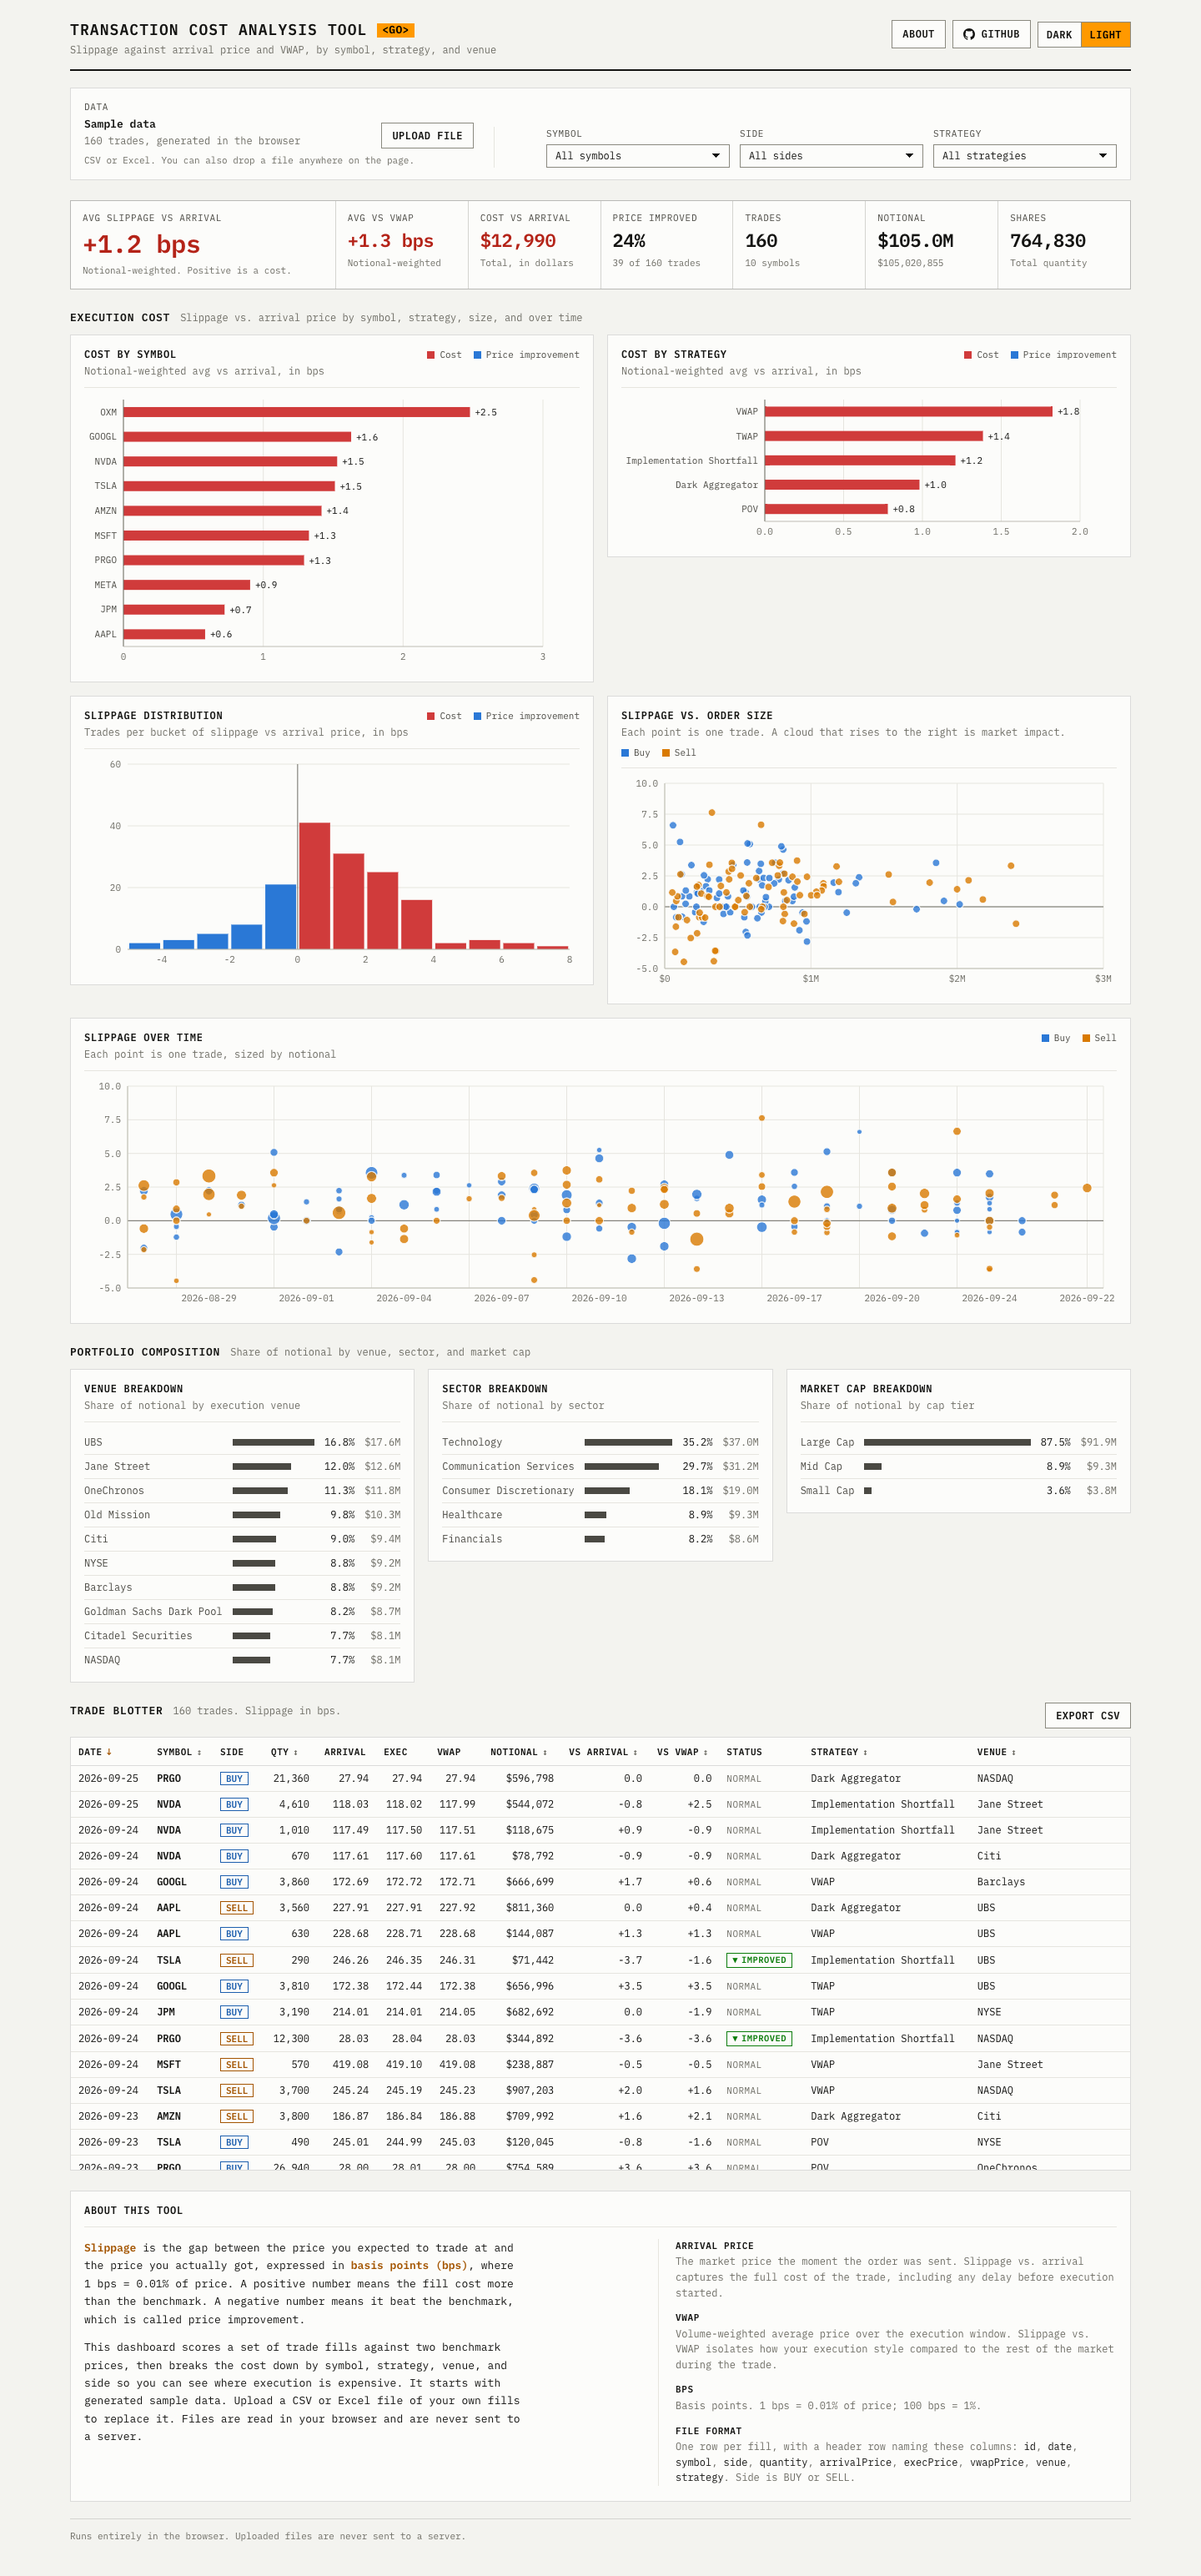
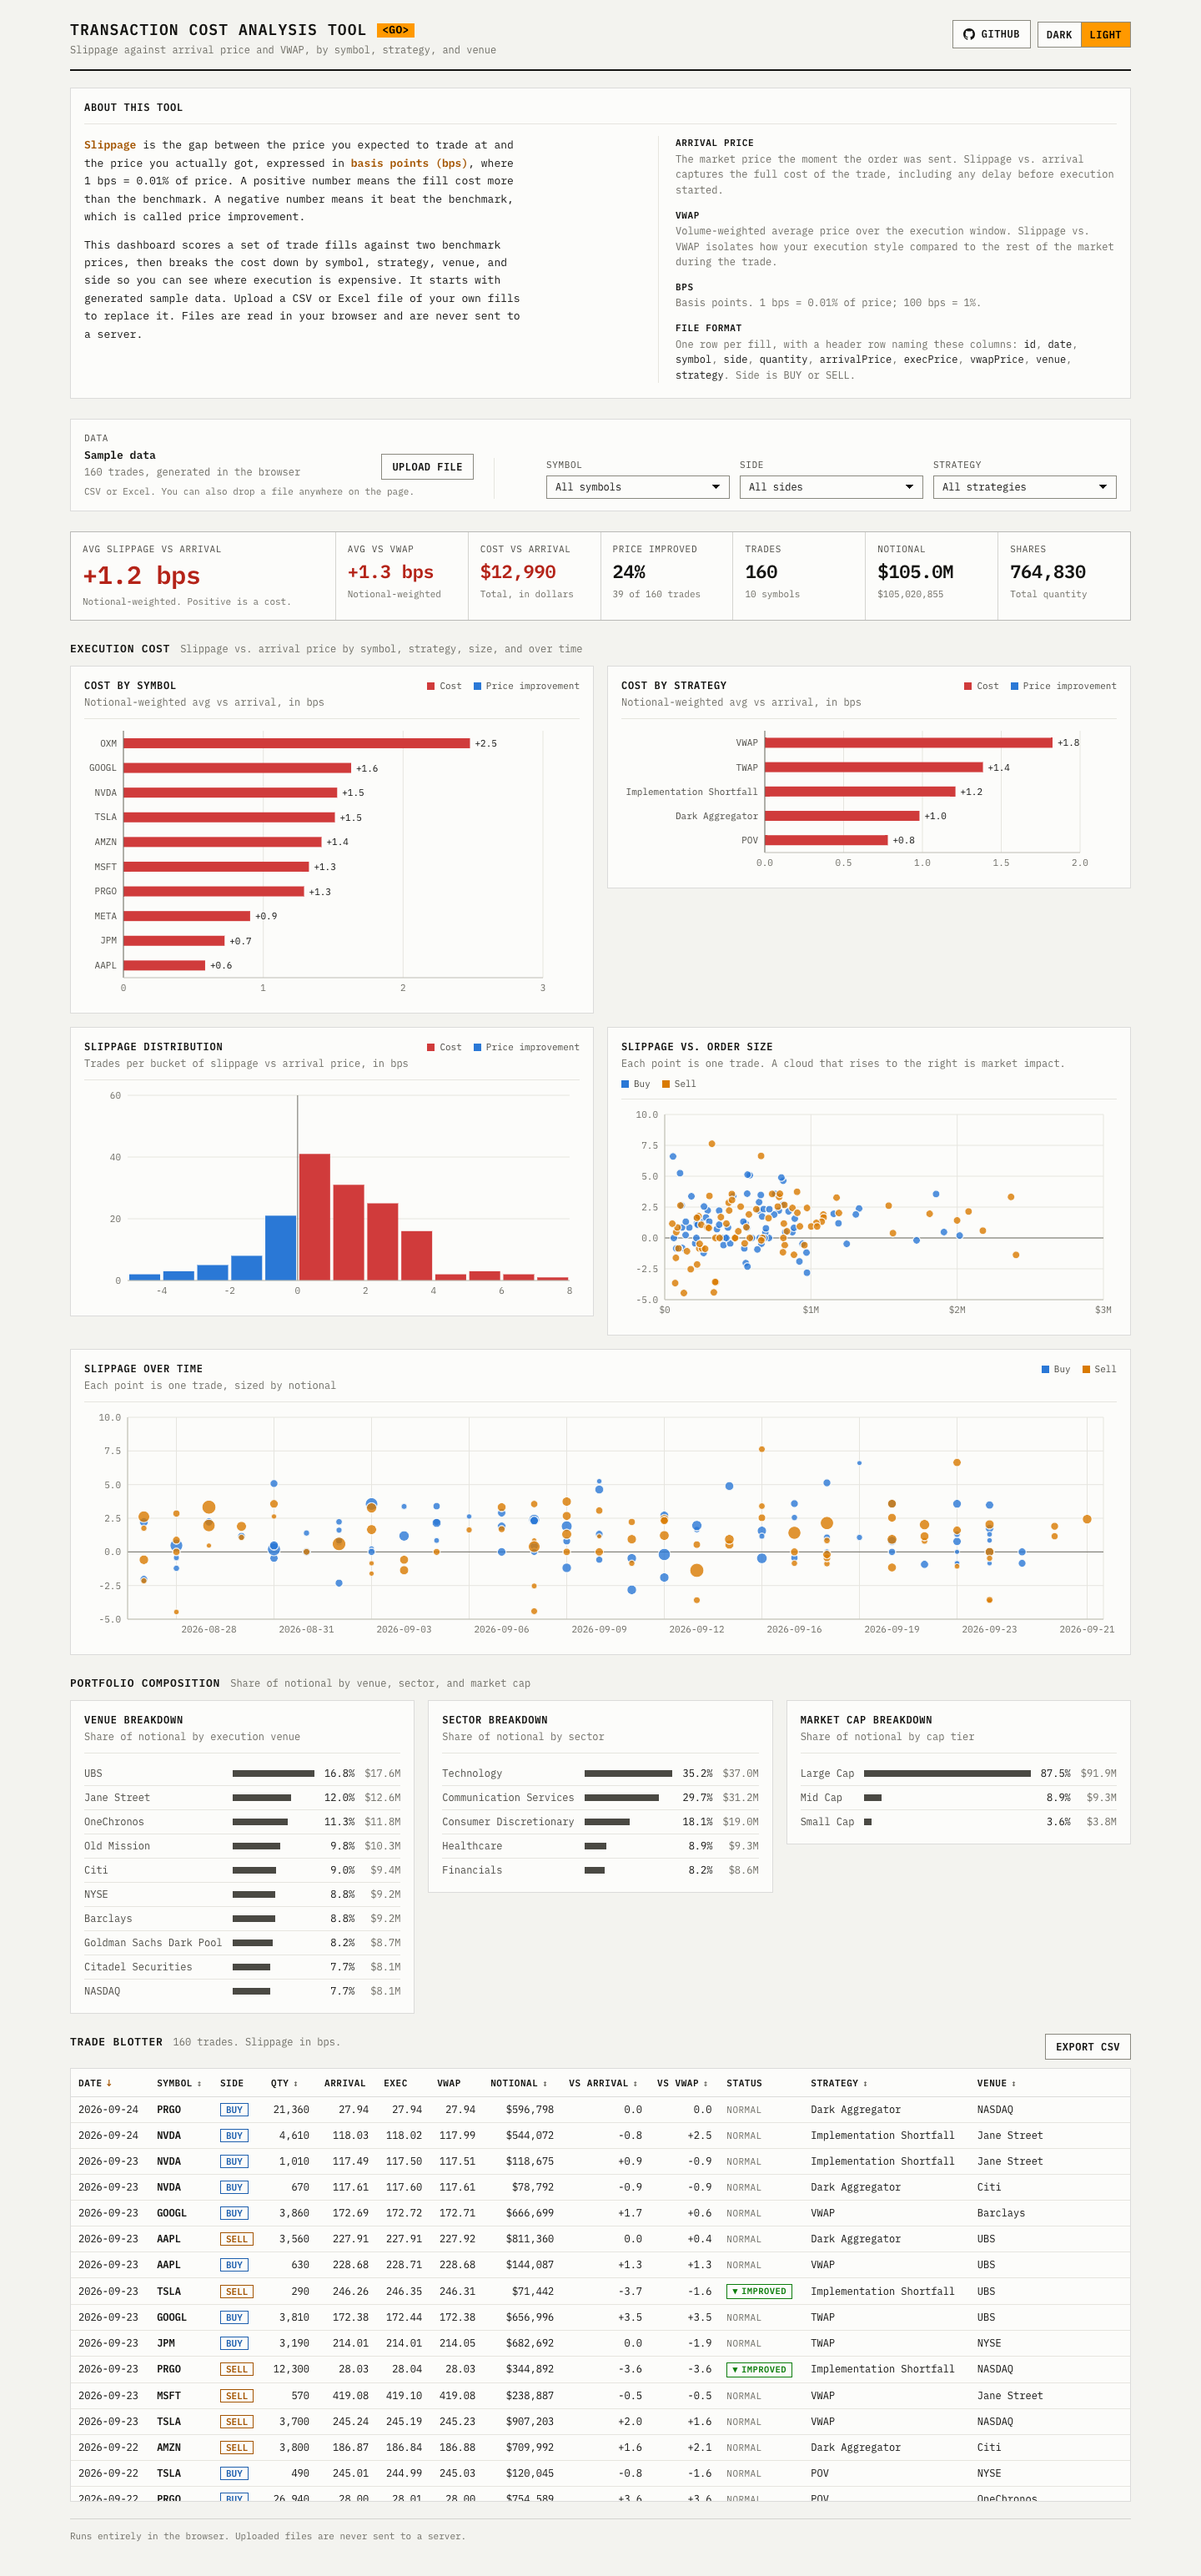
Move the about section back to the top
The explanations read better before the data, so the about section
sits above the control bar again like it did before the redesign. The
header link to it is gone since the section now starts right below the
header. The README screenshots were retaken and the redesign notes
mention the change.

diff --git a/src/App.tsx b/src/App.tsx
@@ -111,15 +111,16 @@ function App() {
           </p>
         </div>
         <nav className="header-actions" aria-label="Page">
-          <a className="btn" href="#about">
-            About
-          </a>
           <RepoLink />
           <ThemeToggle theme={theme} onChange={setTheme} />
         </nav>
       </header>
 
       <main className="dashboard">
+        <section className="page-section" id="about">
+          <AboutPanel />
+        </section>
+
         <section className="toolbar" aria-label="Data and filters">
           <UploadPanel
             source={source}
@@ -282,10 +283,6 @@ function App() {
             </section>
           </>
         )}
-
-        <section className="page-section" id="about">
-          <AboutPanel />
-        </section>
       </main>
 
       <footer className="footer">

diff --git a/UPGRADE.md b/UPGRADE.md
@@ -112,3 +112,4 @@ Every step in the plan is done on the `ui-redesign` branch.
 * An interaction script checked the theme switch, keyboard sorting, dropping a file on the page, the empty filter state, the error for a file with missing columns, and going back to the sample data.
 * The trade blotter fits without scrolling at 1280px and wider, and scrolls sideways inside its panel on smaller screens.
 * The README screenshot was retaken, a light theme screenshot was added next to it, and the social preview image was redrawn with the current name and a chart from the new layout. The old preview still said "TCA ANALYZER" from before the rename.
+* The About section was later moved back to the top of the page, above the control bar, because the explanations read better before the data. The header link to it was removed since the section now starts right below the header. The column list from step 7 stays, and both README screenshots were retaken.

diff --git a/README.md b/README.md
@@ -87,7 +87,7 @@ src/
     refData.ts                  Hardcoded symbol to sector / market cap tier lookup
     useTheme.ts                  Hook that stores and applies the light or dark theme
   components/
-    AboutPanel.tsx        The explanation and file format notes at the bottom of the page
+    AboutPanel.tsx        The explanation and file format notes at the top of the page
     UploadPanel.tsx        The data source panel: loaded file, upload button, and a way back to the sample
     FileDropOverlay.tsx    Accepts a file dropped anywhere on the page
     FilterBar.tsx           Symbol, side, and strategy filters
